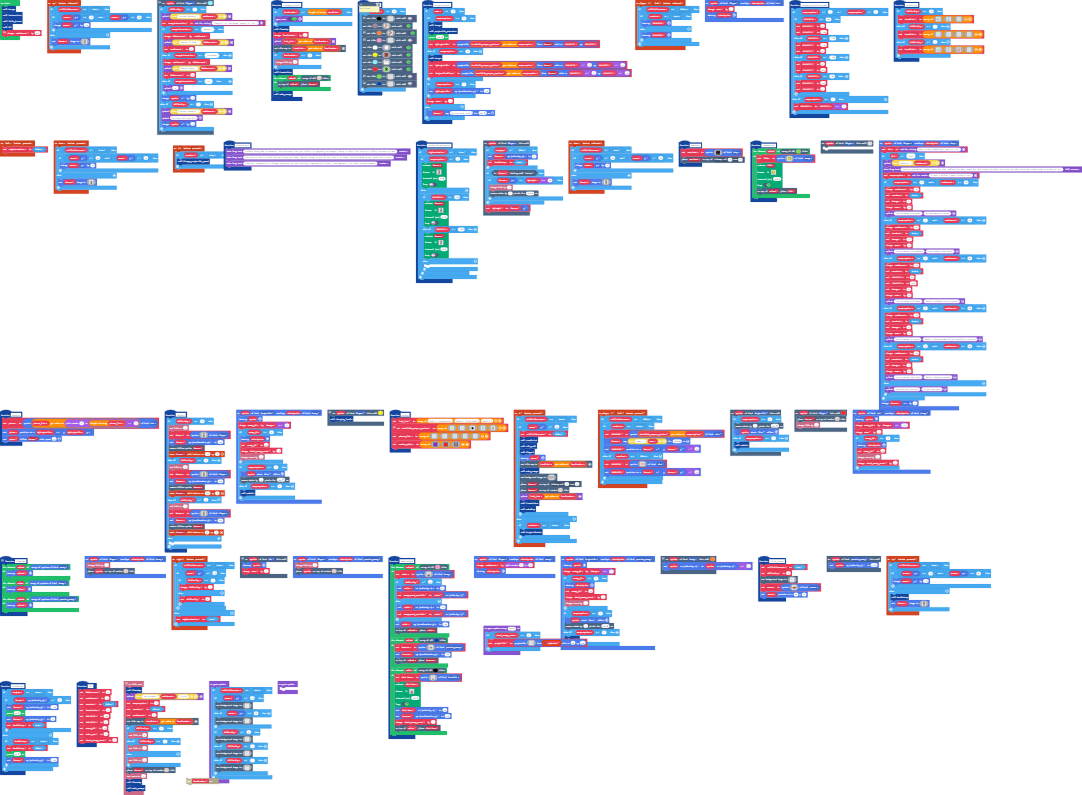
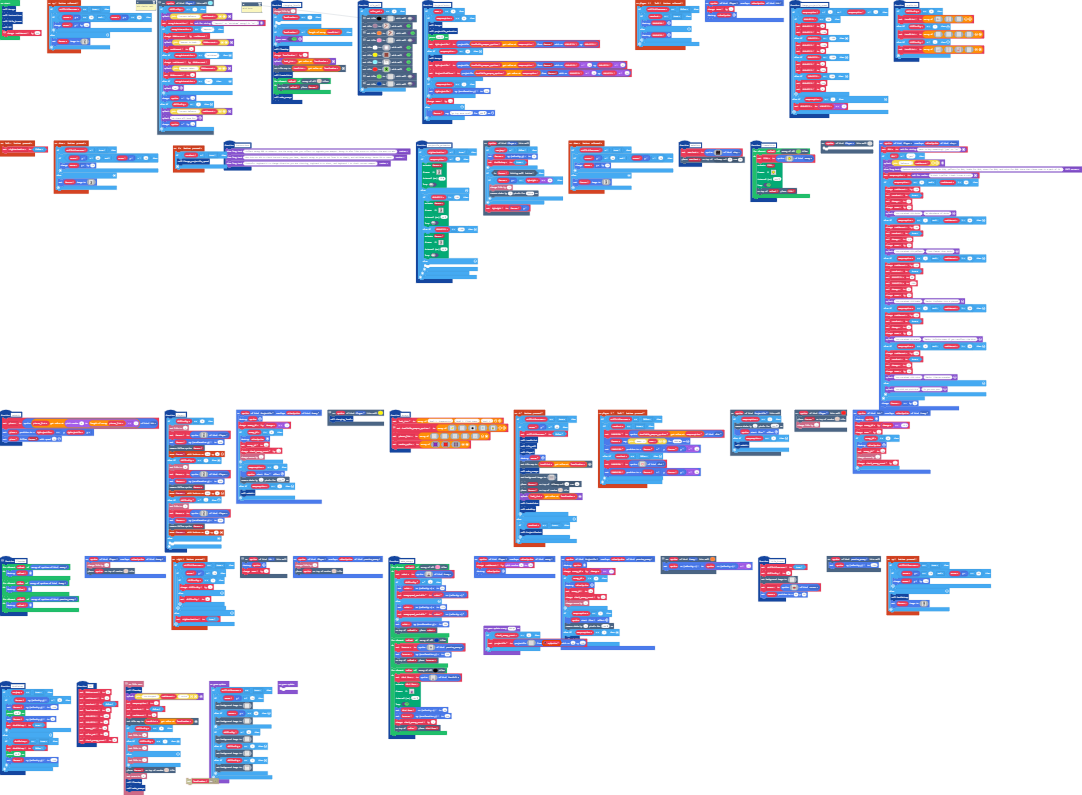
Update main.blocks, main.ts

Changed region(s): [[0.2135, 0.0, 0.366, 0.1509], [0.122, 0.0, 0.1525, 0.0302]]

diff --git a/main.ts b/main.ts
@@ -80,8 +80,9 @@ scene.onHitTile(SpriteKind.Player, 9, function (sprite) {
     }
 })
 function changing_levels () {
-    if (levelnumber == 3) {
-        info.changeLifeBy(1)
+    info.changeLifeBy(1)
+    if (levelnumber == 2) {
+    	
     }
     if (levelnumber == LevelList.length) {
         game.over(true)
@@ -612,8 +613,8 @@ b b . . . b b b b b . . . . . . . . . . . . . . . . .
 2 . . . . . 2 2 b b 2 2 2 2 2 b 1 b b 1 b . 7 b 1 1 b 
 . . . . 8 . . . 2 b 2 2 2 2 2 b b b b b b . . b 1 1 b 
 . . . . . . . . . 2 2 2 2 2 2 b b b b b b 7 . b b b b 
-. . 7 7 7 7 7 . . . . . . . . . . . . . . . . b 1 1 b 
-b d . . . . . . . . . . . . . . . . . . . . 7 b 1 1 b 
+. d 7 7 7 7 7 . . . . . . . . . . . . . . . . b 1 1 b 
+. . . . . . . . . . . . . . . . . . . . . . 7 b 1 1 b 
 b b b b b b b b . . . . . . . . . . 3 . . . . b b b b 
 b b b b b b b b b . . . . . 3 4 b b b b 4 . 2 b 1 1 b 
 b b b b b b b b b 4 b b b b b b 1 b b 1 b 2 2 b 1 1 b 
